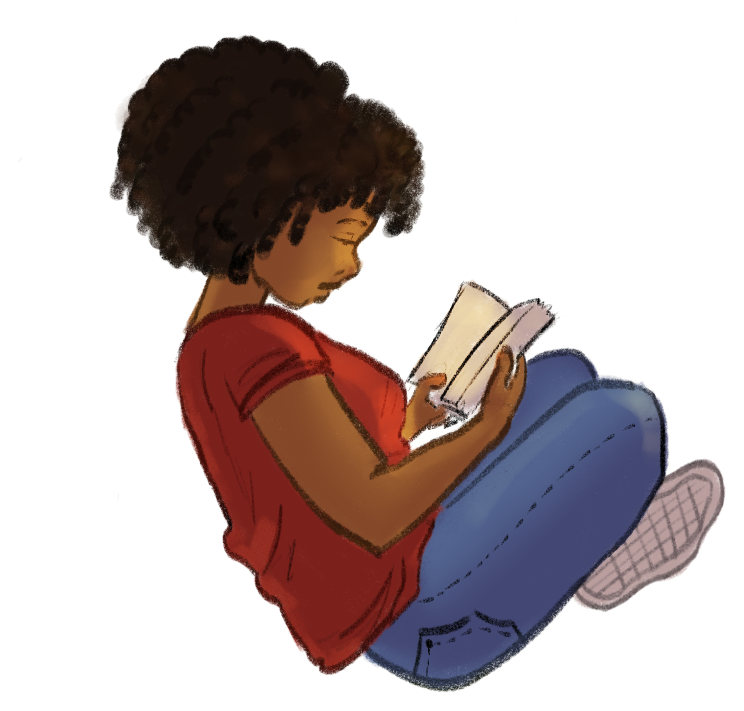
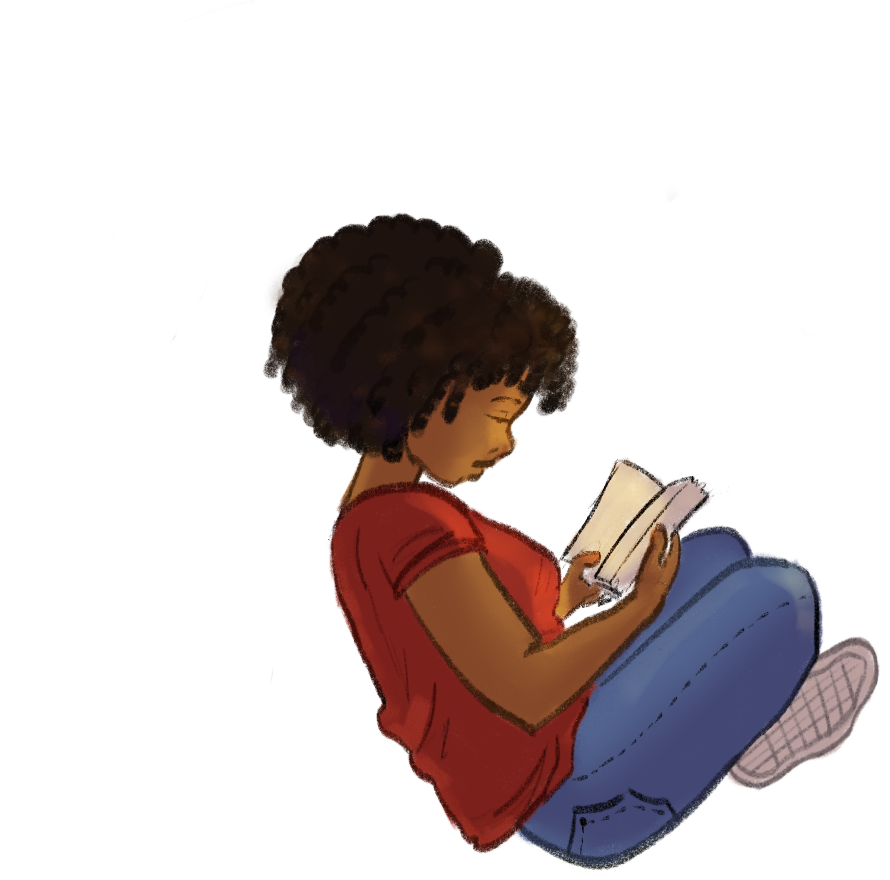
Add bubble drawings, replace the hero, make the padding uniform
New hero export has real transparency, so it needed only cropping: 1440x1024
down to 890x880.

Five bubble drawings keyed out of their white canvases and filed under the
names the page expects: reading, plane, games (controller), guitar (the beamed
pair) and singing (the single note). Originals moved to
~/Downloads/bubble-originals/.

Each drawing is now padded onto a square canvas where it takes 72% of the side,
so every bubble shows the same margin between art and rim regardless of whether
the drawing is wide (the book) or tall (the notes). Art is sized with
object-fit: contain in a square box so neither aspect overflows the circle.

Known gap: plane.png is drawn white-on-white with only faint outlines, so
keying leaves fragments; it needs a transparent re-export. No drawing yet for
the drawing bubble, which falls back to its word.

diff --git a/index.html b/index.html
@@ -14,7 +14,7 @@
         href="https://fonts.googleapis.com/css2?family=Mona+Sans:wght@400;500;700;800&display=swap">
 
   <!-- bump ?v= when you edit these, so browsers pick up the change -->
-  <link rel="stylesheet" href="css/style.css?v=4">
+  <link rel="stylesheet" href="css/style.css?v=6">
 
   <!-- Artwork can be .png or .svg. Try png, then svg, then show the word.
        Defined here because images start loading before the body script runs. -->
@@ -138,6 +138,6 @@
     <p class="footer-fine">© <span id="year">2026</span> Uju Duru</p>
   </footer>
 
-  <script src="js/bubbles.js?v=4"></script>
+  <script src="js/bubbles.js?v=6"></script>
 </body>
 </html>

diff --git a/css/style.css b/css/style.css
@@ -248,8 +248,11 @@ a { color: inherit; }
 /* the sketch inside the bubble. Kept off the rim so the circle still reads
    as a bubble; SVG strokes set to currentColor inherit the pink. */
 .bubble-art {
+  /* A square box the art fits inside, so a tall drawing (a music note) and a
+     wide one (an open book) both sit within the circle instead of overflowing. */
   width: 62%;
-  height: auto;
+  height: 62%;
+  object-fit: contain;
   color: var(--ink);
   pointer-events: none;
   user-select: none;
